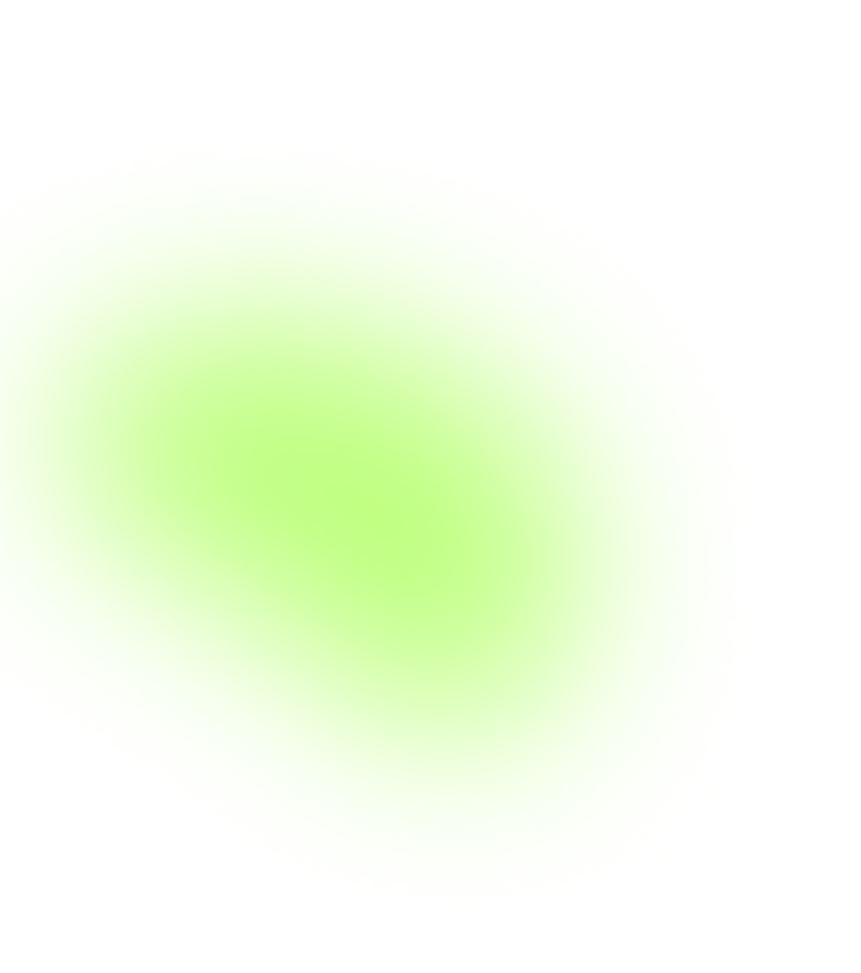
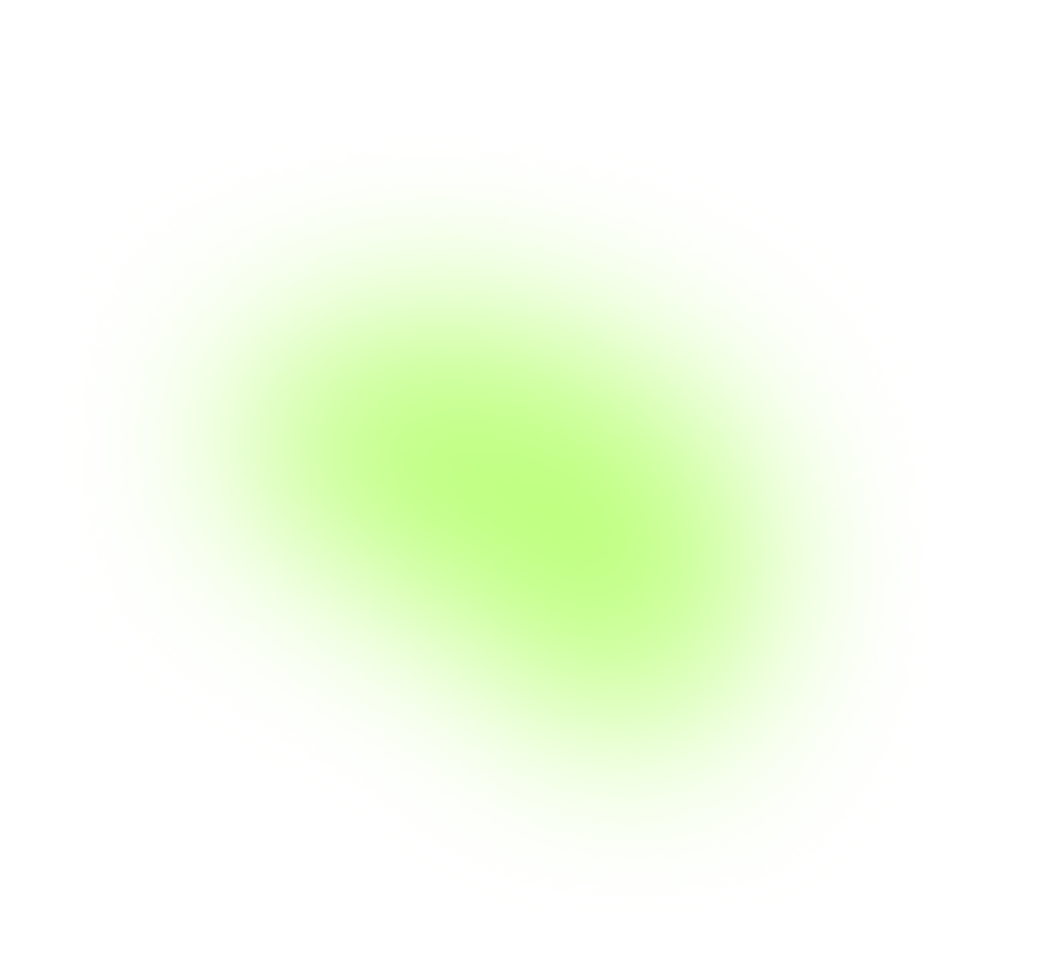
circles added

Changed region(s): [[0.0, 0.2775, 0.4832, 0.7708], [0.5436, 0.37, 0.7549, 0.7091]]

diff --git a/src/public/css/main/why-we/why-we.css b/src/public/css/main/why-we/why-we.css
@@ -1,4 +1,6 @@
 .why-we {
+    position: relative;
+    overflow: hidden;
 }
 
 .why-we__block {
@@ -252,4 +254,87 @@
 .why-we__review-container .bx-next:hover::after,
 .why-we__review-container .bx-prev:hover::after {
     border-color: #ffffff;
+}
+
+.why-we__blue-hor,
+.why-we__blue-left,
+.why-we__blue-right,
+.why-we__green-left,
+.why-we__violet-right {
+    background-size: cover;
+    background-repeat: no-repeat;
+    background-position: 50% 50%;
+
+    position: absolute;
+}
+
+.why-we__blue-hor {
+    background-image: url('/circles/light-review/blue-hor.png');
+    width: 906px;
+    height: 906px;
+
+    top: -10%;
+    left: 7%;
+}
+
+.why-we__blue-left {
+    background-image: url('/circles/light-review/blue-left.png');
+    width: 906px;
+    height: 906px;
+
+    bottom: -20%;
+    right: 12%;
+}
+
+.why-we__blue-right {
+    background-image: url('/circles/light-review/blue-right.png');
+    width: 906px;
+    height: 906px;
+
+    top: 35%;
+    right: -10%;
+}
+
+.why-we__green-left {
+    background-image: url('/circles/light-review/green-left.png');
+    width: 906px;
+    height: 906px;
+
+    top: 15%;
+    left: -7%;
+}
+
+.why-we__violet-right {
+    background-image: url('/circles/light-review/violet-right.png');
+    width: 906px;
+    height: 906px;
+
+    top: 3%;
+    right: -7%;
+}
+
+@media (max-width: 576px) {
+    .why-we__blue-hor {
+        left: 0%;
+    }
+
+    .why-we__blue-left {
+        bottom: -7%;
+        right: 0%;
+    }
+
+    .why-we__blue-right {
+        top: 60%;
+        right: -120%;
+    }
+
+    .why-we__green-left {
+        top: 15%;
+        left: -130%;
+    }
+
+    .why-we__violet-right {
+        top: 33%;
+        right: -135%;
+    }
 }

diff --git a/src/public/css/review/review.css b/src/public/css/review/review.css
@@ -5,13 +5,14 @@
     padding-right: 48px !important;
 
     box-sizing: border-box;
+    backdrop-filter: blur(40px);
 }
 
 @media (max-width: 1200px) {
     .review {
         max-width: 343px;
-        margin-top: 0px !important;
-        margin-right: 0px !important;
+        padding-top: 0px !important;
+        padding-right: 0px !important;
     }
 }
 
@@ -31,6 +32,8 @@
     background-color: rgba(255, 255, 255, 0.35);
     border-radius: 24px;
     z-index: -1;
+
+    backdrop-filter: blur(40px);
 }
 
 .review :before {
@@ -50,11 +53,13 @@
     border-radius: 24px;
 
     z-index: -2;
+
+    backdrop-filter: blur(40px);
 }
 
 @media (max-width: 1200px) {
-    .review::before,
-    .review::after {
+    .review :before,
+    .review :after {
         display: none;
     }
 }
@@ -64,6 +69,8 @@
 
     background: rgba(255, 255, 255, 0.35);
     border-radius: 24px;
+
+    backdrop-filter: blur(40px);
 }
 
 @media (max-width: 576px) {
